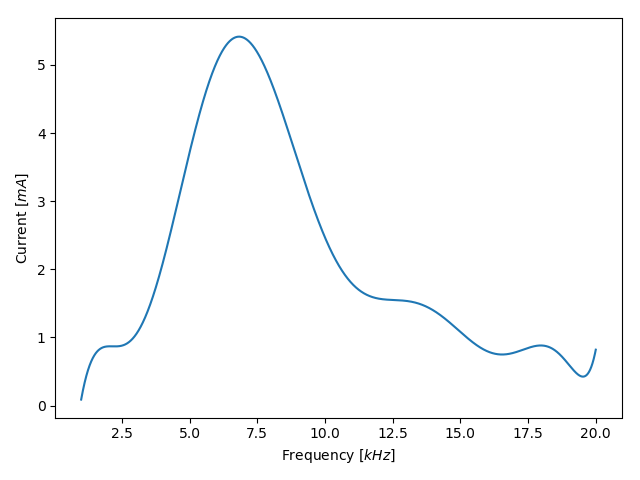
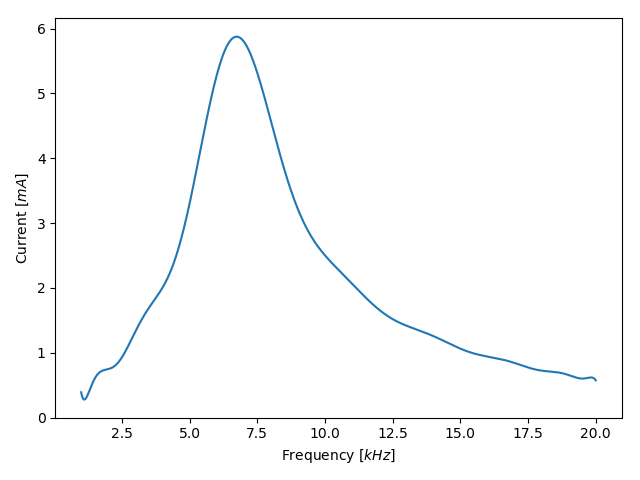
Uploaded latest version, calculating bandswitdh and Q factor

diff --git a/data analysis.py b/data analysis.py
@@ -16,7 +16,7 @@ def getting_data_to_tuple(name_of_file):
 
 
 def getting_polynomial_regression_coefficients(X, Y):
-    return np.polyfit(X, Y, 10)
+    return np.polyfit(X, Y, 17)
 
 
 def creating_linspace_over_X(X):
@@ -28,14 +28,22 @@ def plotter(XY, nameoffig):
     Y = XY[:][1]
     c = getting_polynomial_regression_coefficients(X, Y) #coefficient tuple
     x = creating_linspace_over_X(X)
-    plt.plot(x, c[0]*x**10 + c[1]*x**9 + c[2] * x**8 + c[3] * x**7 + c[4] * x ** 6 + c[5] * x ** 5 +
-             c[6] * x ** 4 + c[7] * x ** 3 + c[8] * x ** 2 + c[9] * x + c[10])
+    plt.plot(x, np.polyval(c, x))
+    c_bandwith = c
+    c_bandwith[-1] = c_bandwith[-1] - max(Y) / np.sqrt(2)
+    roots = np.roots(c_bandwith)
+    rootsreal = [root for root in roots if np.iscomplex(root) == False and root < max(X) and root > min(X)]
+    bandwith = abs(rootsreal[1] - rootsreal[0])
+    print("Bandswidth is {0} kHz".format(bandwith.round(2)))
     plt.xlabel("Frequency [$kHz$]")
     plt.ylabel("Current [$mA$]")
     plt.tight_layout()
     plt.savefig(nameoffig)
     plt.clf()
-
+    resonancefrequency = X[Y.index(max(Y))]
+    print("The resonance frequency is {0} kHz".format(resonancefrequency))
+    qobtainedwith5thequation = resonancefrequency / bandwith
+    print("Q factor obtained with equation 5 is {0}".format(qobtainedwith5thequation.round(2)))
 
 
 plotter(getting_data_to_tuple("E-06,1.csv"), "plot1")
